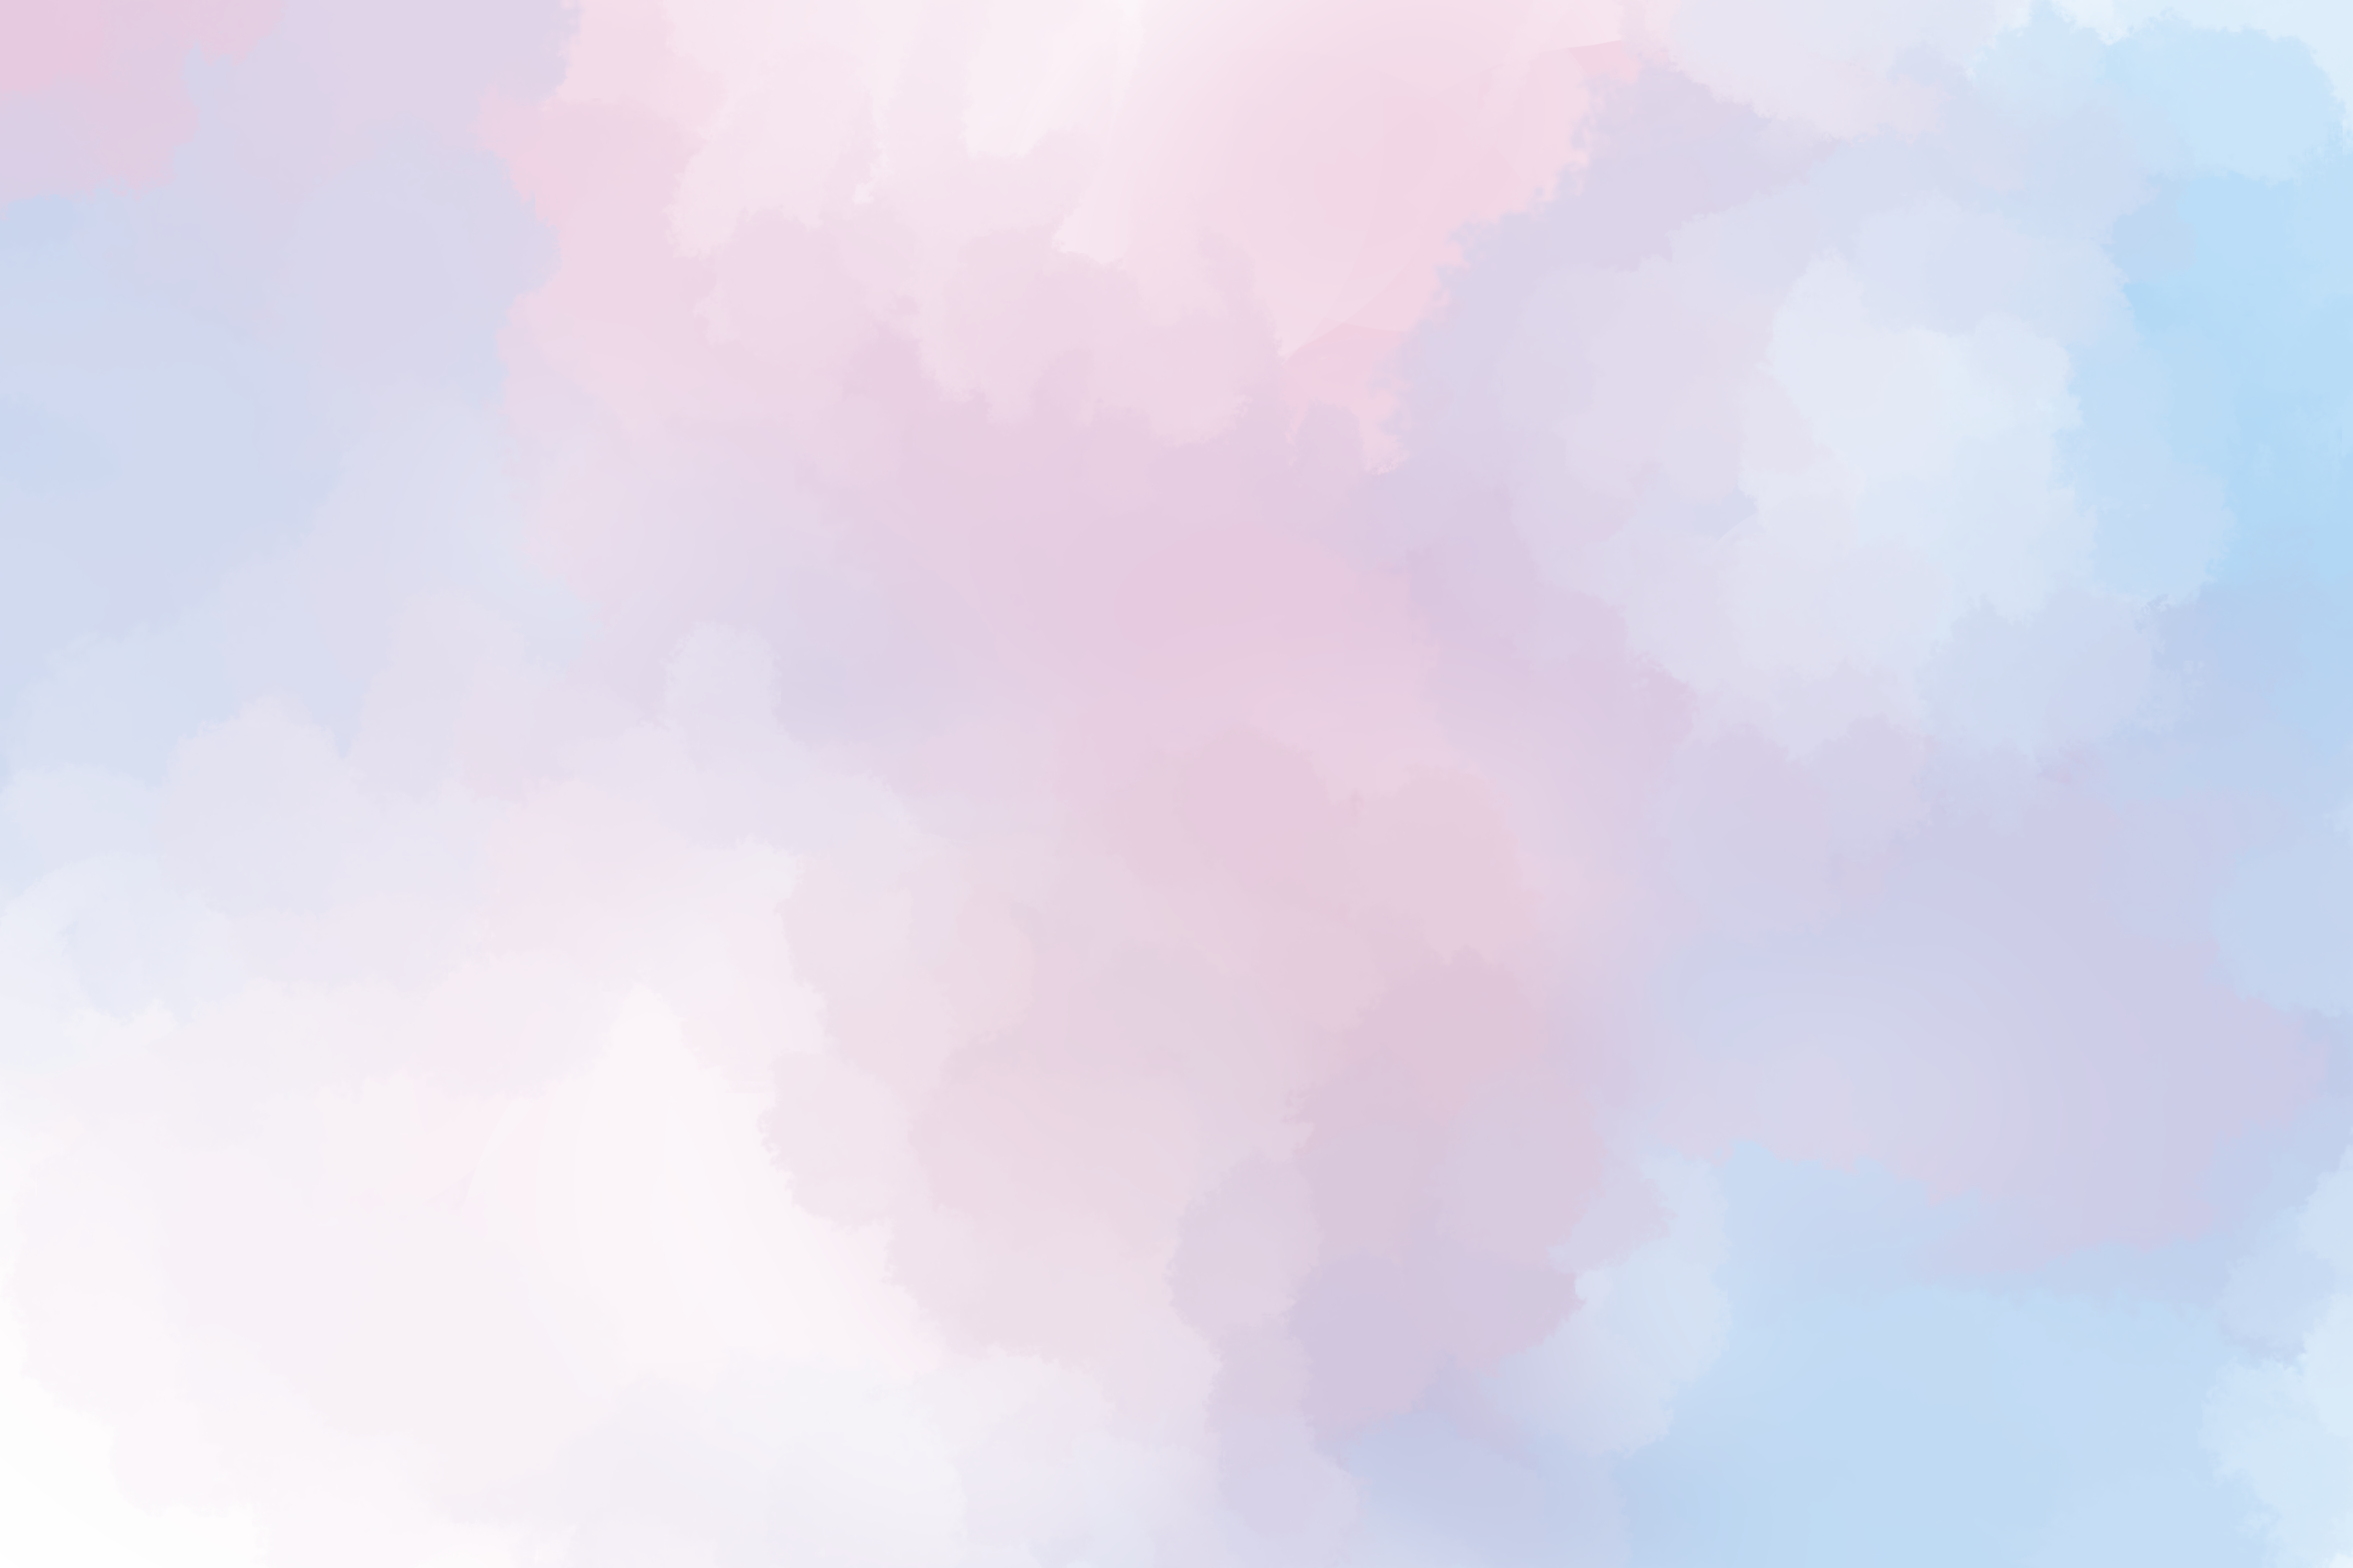
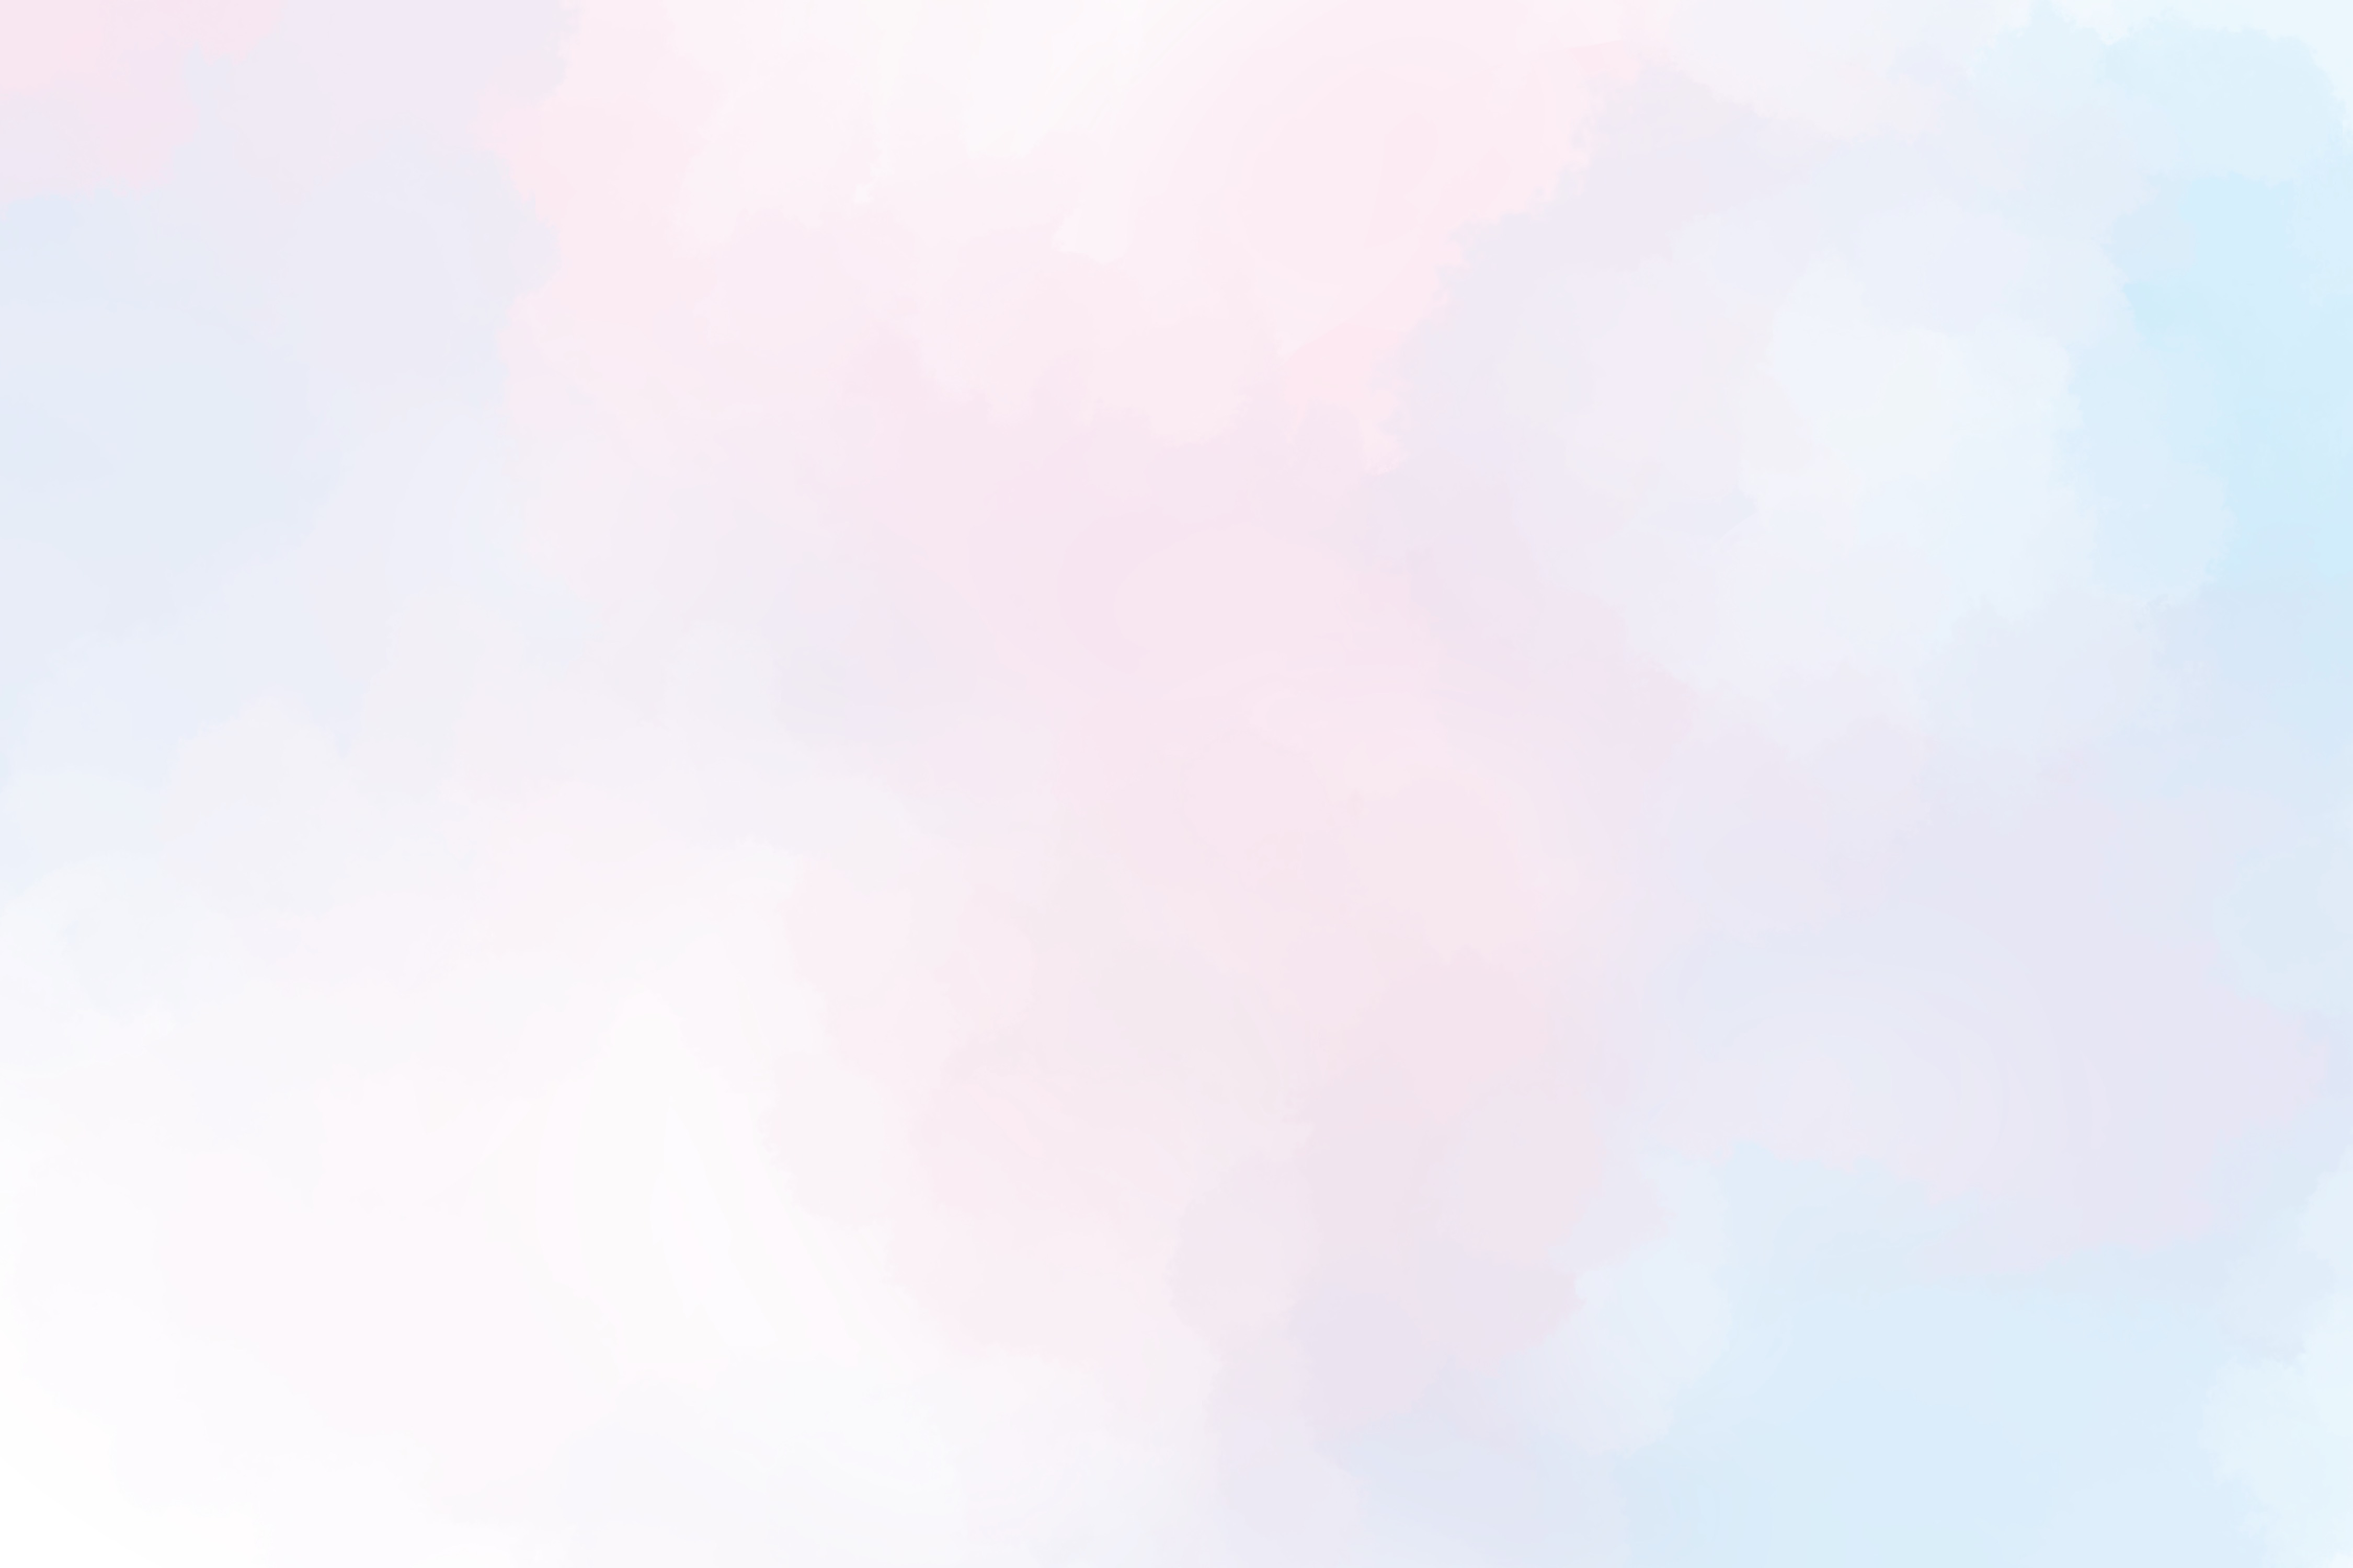
Se agrega fondo y menú desktop en la media query

Changed region(s): [[0.3733, 0.093, 1.0, 1.0], [0.0, 0.0, 0.1244, 0.186], [0.0, 0.248, 0.0311, 0.31]]

diff --git a/style.css b/style.css
@@ -4,27 +4,48 @@
 * {
     margin: 0;
     padding: 0;
+    box-sizing: border-box;
 }
 
 body {
-    background: url(imagenes/textura-fondo.jpg) ;
+    background: url(imagenes/Menu-background.jpg) ;
 }
 
 header {
-    width: 100vh;
-    height: 300px;
-    background: linear-gradient(to bottom, #e1d6ff, #f4f1fb);
-}
-
-.menu-desktop {
-    display: none;
+    width: 100%;
+    height: 100px;
+    background: linear-gradient(to bottom, #a383fb, #baa2fc );
 }
 
 
-@media (min-width760px) {
-    .menu-responsive {
-        display: none;
+ li a {
+    text-decoration: none;
+    color: #fff;
+ }
+
+ @media (min-width: 600px) {
+    
+    .menu-desktop {
+        width: 100%;
+        height: 100px;
+        display: flex;
+        flex-direction: row;
+        font-family: 'Raleway', sans-serif;
+        font-size: 1.5rem;
+        list-style: none;
+        justify-content: flex-end;
+        gap: 4%;
+        align-items: center;
     }
+    
+     .contact-button {
+        margin-right: 55px;
+        padding: 12px 40px;
+        background-color: #5c4796 ;
+        border-radius: 50px;
+    
+     }
+
 }
 
 

diff --git a/index.html b/index.html
@@ -8,15 +8,15 @@
 </head>
 <body>
     <header>
-        <div class="menu-responsive">
-            <ul>
-                <li><a href="">Hola</a></li>
-                <li><a href="">Conocimientos</a></li>
-                <li><a href="">Proyectos</a></li>
-                <li><a href="">Contacto</a></li>
-            </ul>
-        </div>
-   
+       
+         <ul class="menu-desktop">
+            <li><a href="">Hello</a></li>
+            <li><a href="">Knowledge</a></li>
+            <li><a href="">Projects</a></li>
+            <li class="contact-button"><a href="">Contact</a></li>
+        </ul>
+        
+   <!-- 
         <div class="menu-desktop">
             <ul>
                 <li><a href="">Hola</a></li>
@@ -24,7 +24,8 @@
                 <li><a href="">Proyectos</a></li>
                 <li><a href="">Contacto</a></li>
             </ul>
-        </div>
+        </div>  
+        -->
     </header>
 
     <section>
